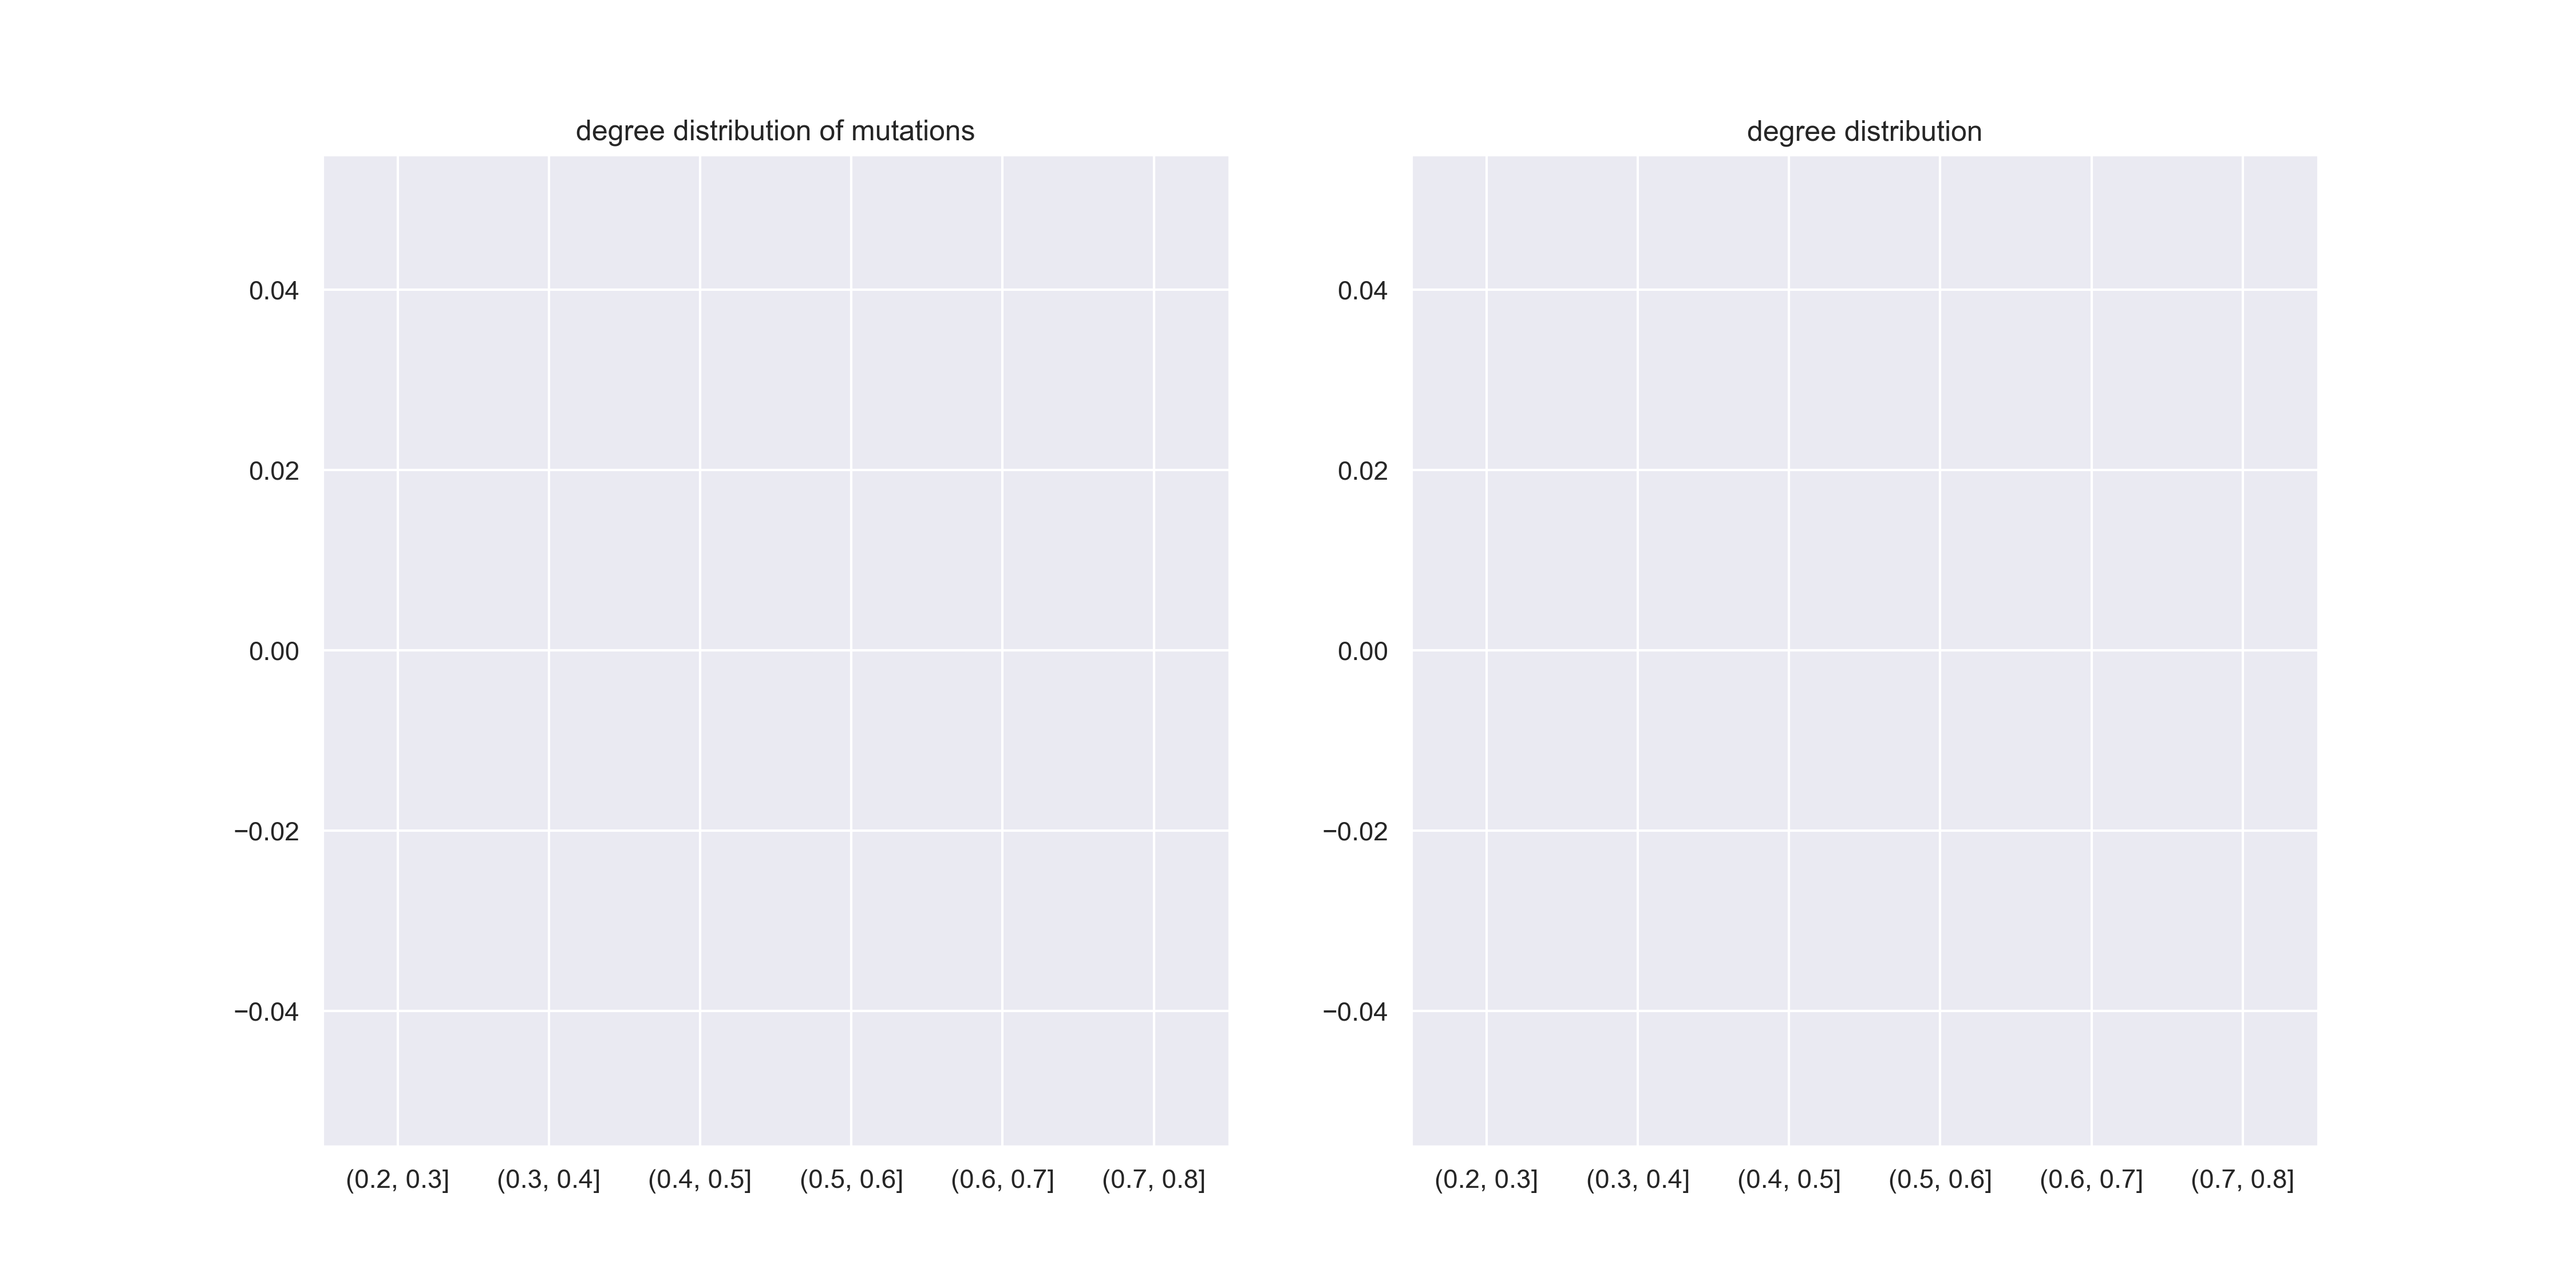
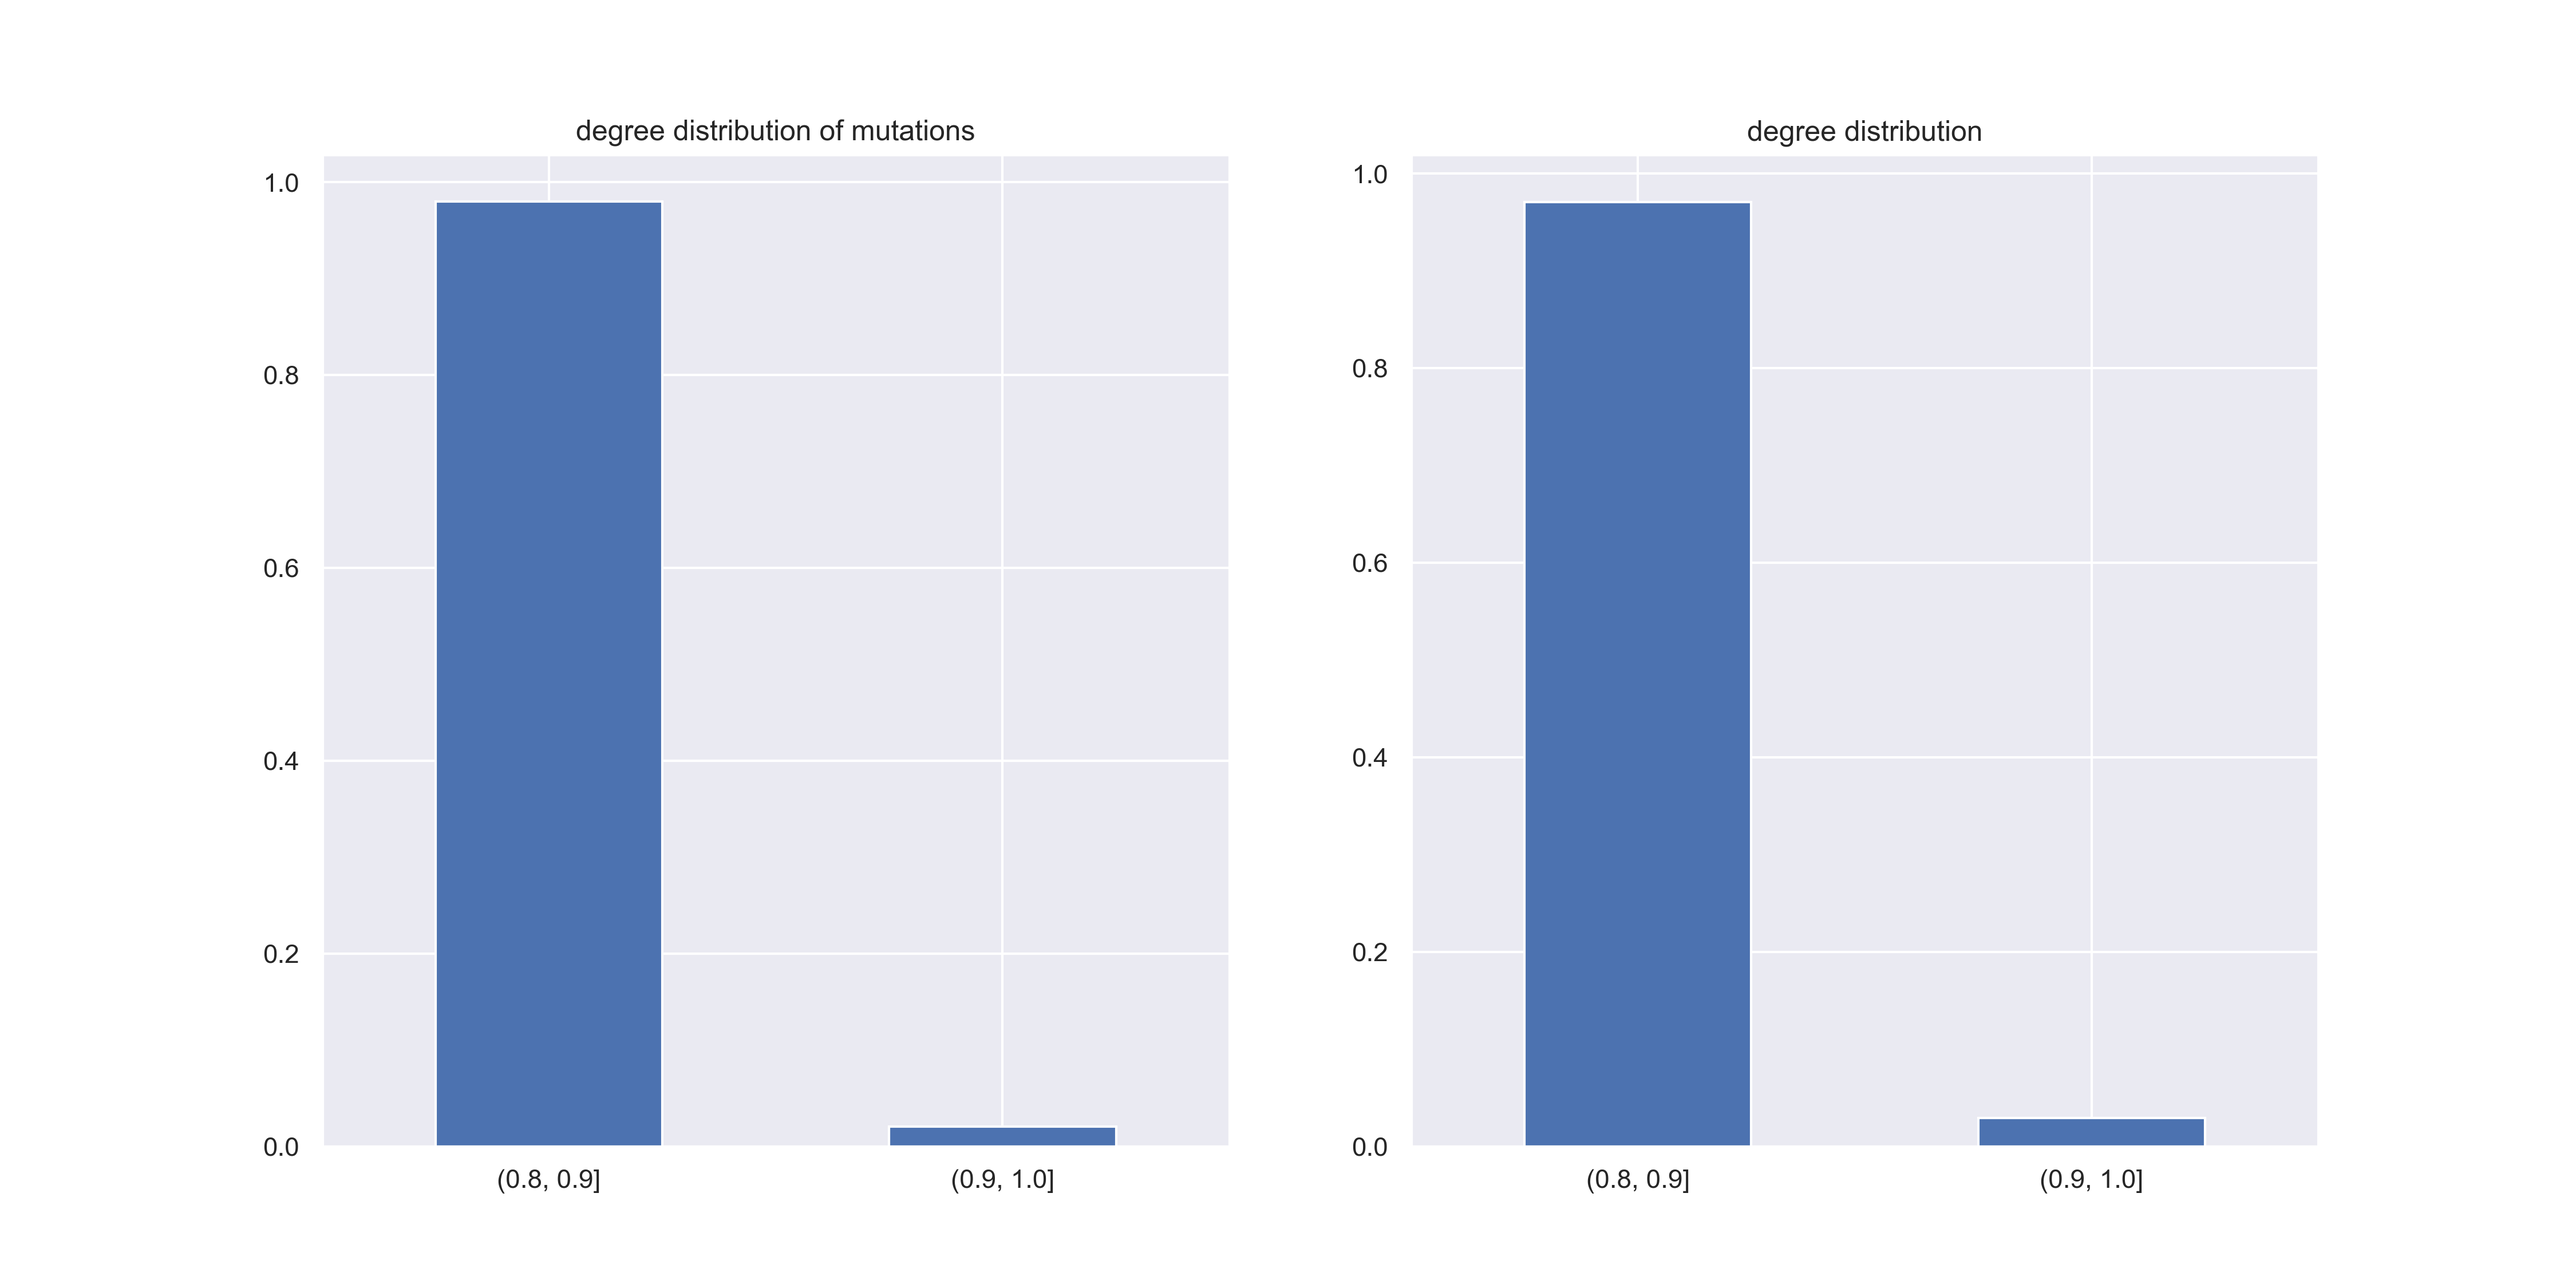
为度分布设置自调整的范围

diff --git a/v2/output_procon_analysis.py b/v2/output_procon_analysis.py
@@ -420,7 +420,15 @@ class ProConNetwork:
         log.debug("min(sample_degrees) = %s", min(sample_degrees))
         log.debug("max(sample_degrees) = %s", max(sample_degrees))
 
-        cut_split = np.arange(0.2, 0.73, 0.1).tolist()
+        # 寻找最值
+        min_value = min(min(aas_degrees), min(sample_degrees))
+        max_value = max(max(aas_degrees), max(sample_degrees))
+        # 进行归一化
+        min_value = math.floor(min_value*10) / 10
+        max_value = math.ceil(max_value*10) / 10 + 0.03
+        cut_split = np.arange(min_value, max_value, 0.1).tolist()
+        log.debug("cut_split = %s", cut_split)
+
         aas_degrees_cut = pd.cut(aas_degrees, cut_split).value_counts().sort_index() / len(aas_degrees)
         sample_degrees_cut = pd.cut(sample_degrees, cut_split).value_counts().sort_index() / len(sample_degrees)
         log.debug("aas_degrees_cut = %s", aas_degrees_cut)
@@ -704,9 +712,9 @@ class ProConNetwork:
         # self._plot_mutations_relationship()  # 绘制变异位点的关系图: 节点-变异位点，节点大小-出现的次数，边-是否存在共保守性
         # self._collect_mutation_info()  # 收集变异位点的消息，生成表格
         # self._plot_procon_distribution()  # 分数分布图
-        # self._plot_degree_distribuition()  # 度分布
+        self._plot_degree_distribuition()  # 度分布
         # self._plot_node_box()  # 箱线图：中心性 + 保守性
-        self._plot_edge_box()  # 共保守性  TODO: 使用采样的方式
+        # self._plot_edge_box()  # 共保守性  TODO: 使用采样的方式
         # self.calculate_average_shortest_path_length()
 
     def random_sample_analysis(self, aas: list, groups, N=1000):
@@ -864,18 +872,18 @@ if __name__ == '__main__':
     # 保守性网络
     # 需要关注的变异
     mutation_groups = AnalysisMutationGroup()
-    mutation_groups.display_seq_and_aa()
-    pcn = ProConNetwork(mutation_groups, threshold=100)
-    pcn.analysisG()
-    end_time = time.time()
-    log.info(f"程序运行时间: {end_time - start_time}")
+    # mutation_groups.display_seq_and_aa()
+    # pcn = ProConNetwork(mutation_groups, threshold=100)
+    # pcn.analysisG()
+    # end_time = time.time()
+    # log.info(f"程序运行时间: {end_time - start_time}")
 
-    # thresholds = [50, 100, 150, 200, 250, 300]
-    # for t in thresholds:
-    #     pcn = ProConNetwork(mutation_groups, threshold=t)
-    #
-    #     pcn.analysisG()
-    #     # pcn.random_sample_analysis(aas, groups.get_aa_groups())
-    #
-    #     end_time = time.time()
-    #     log.info(f"程序运行时间: {end_time - start_time}")
+    thresholds = [50, 100, 150, 200, 250, 300]
+    for t in thresholds:
+        pcn = ProConNetwork(mutation_groups, threshold=t)
+
+        pcn.analysisG()
+        # pcn.random_sample_analysis(aas, groups.get_aa_groups())
+
+        end_time = time.time()
+        log.info(f"程序运行时间: {end_time - start_time}")
